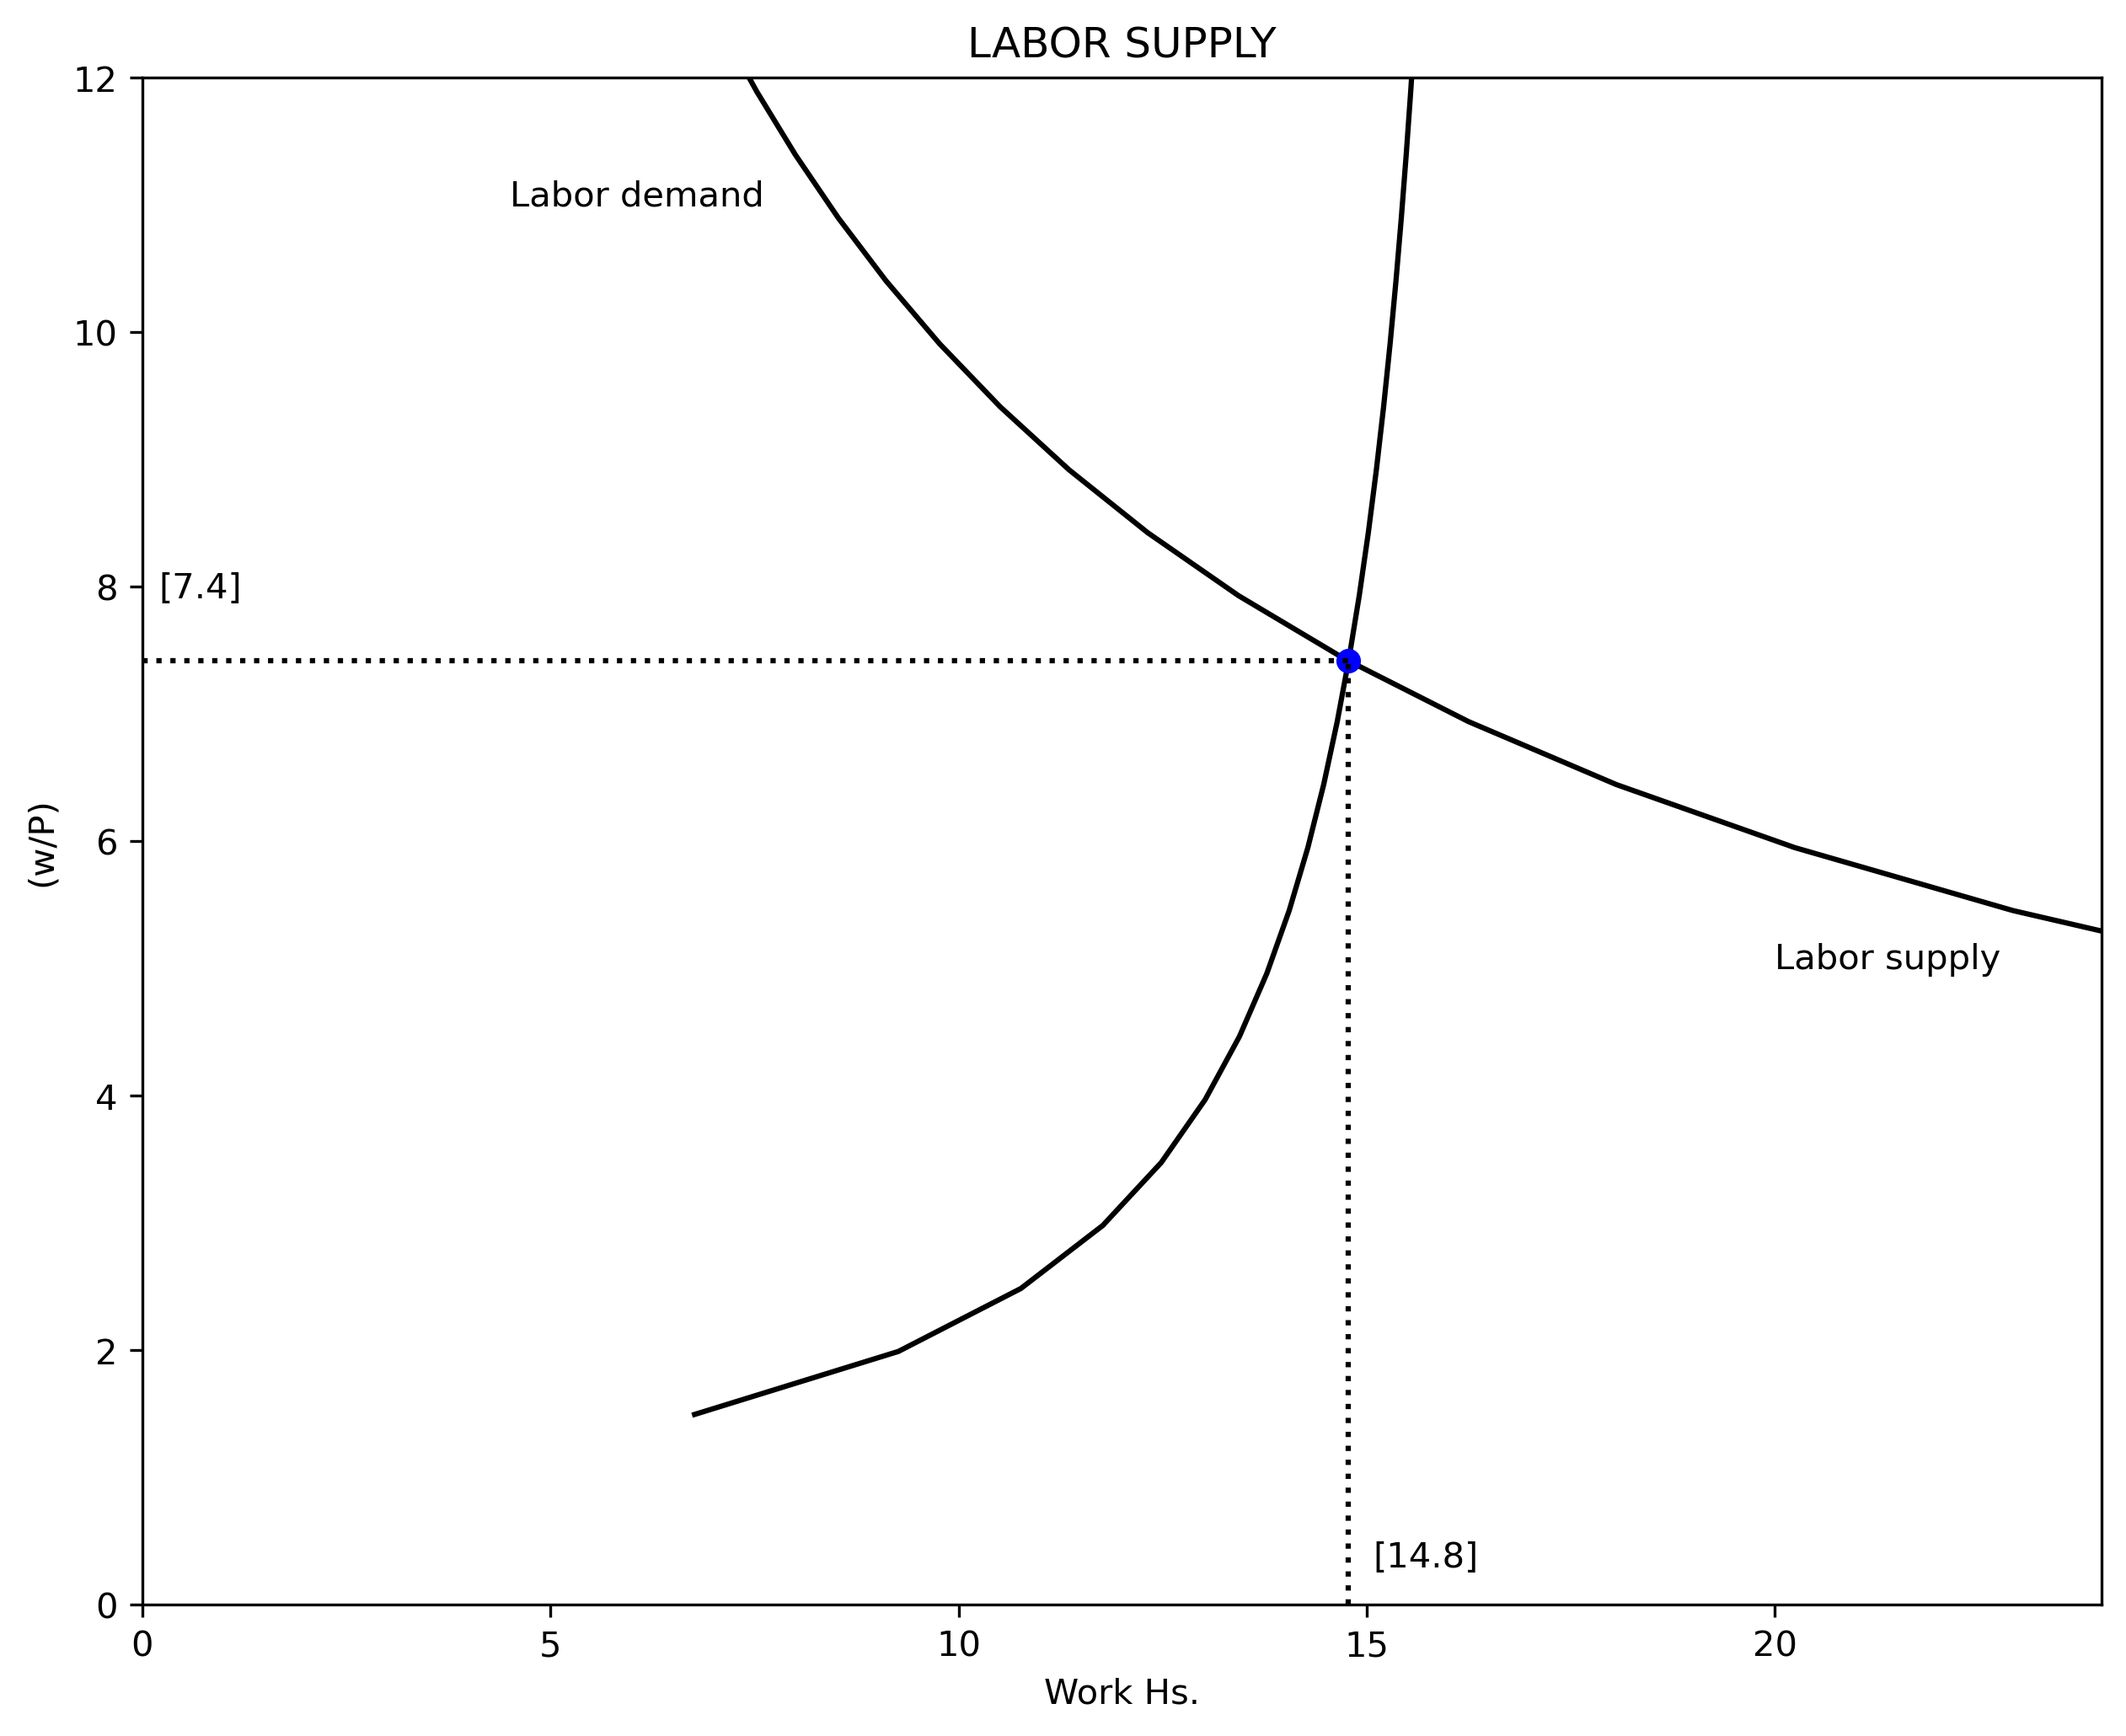
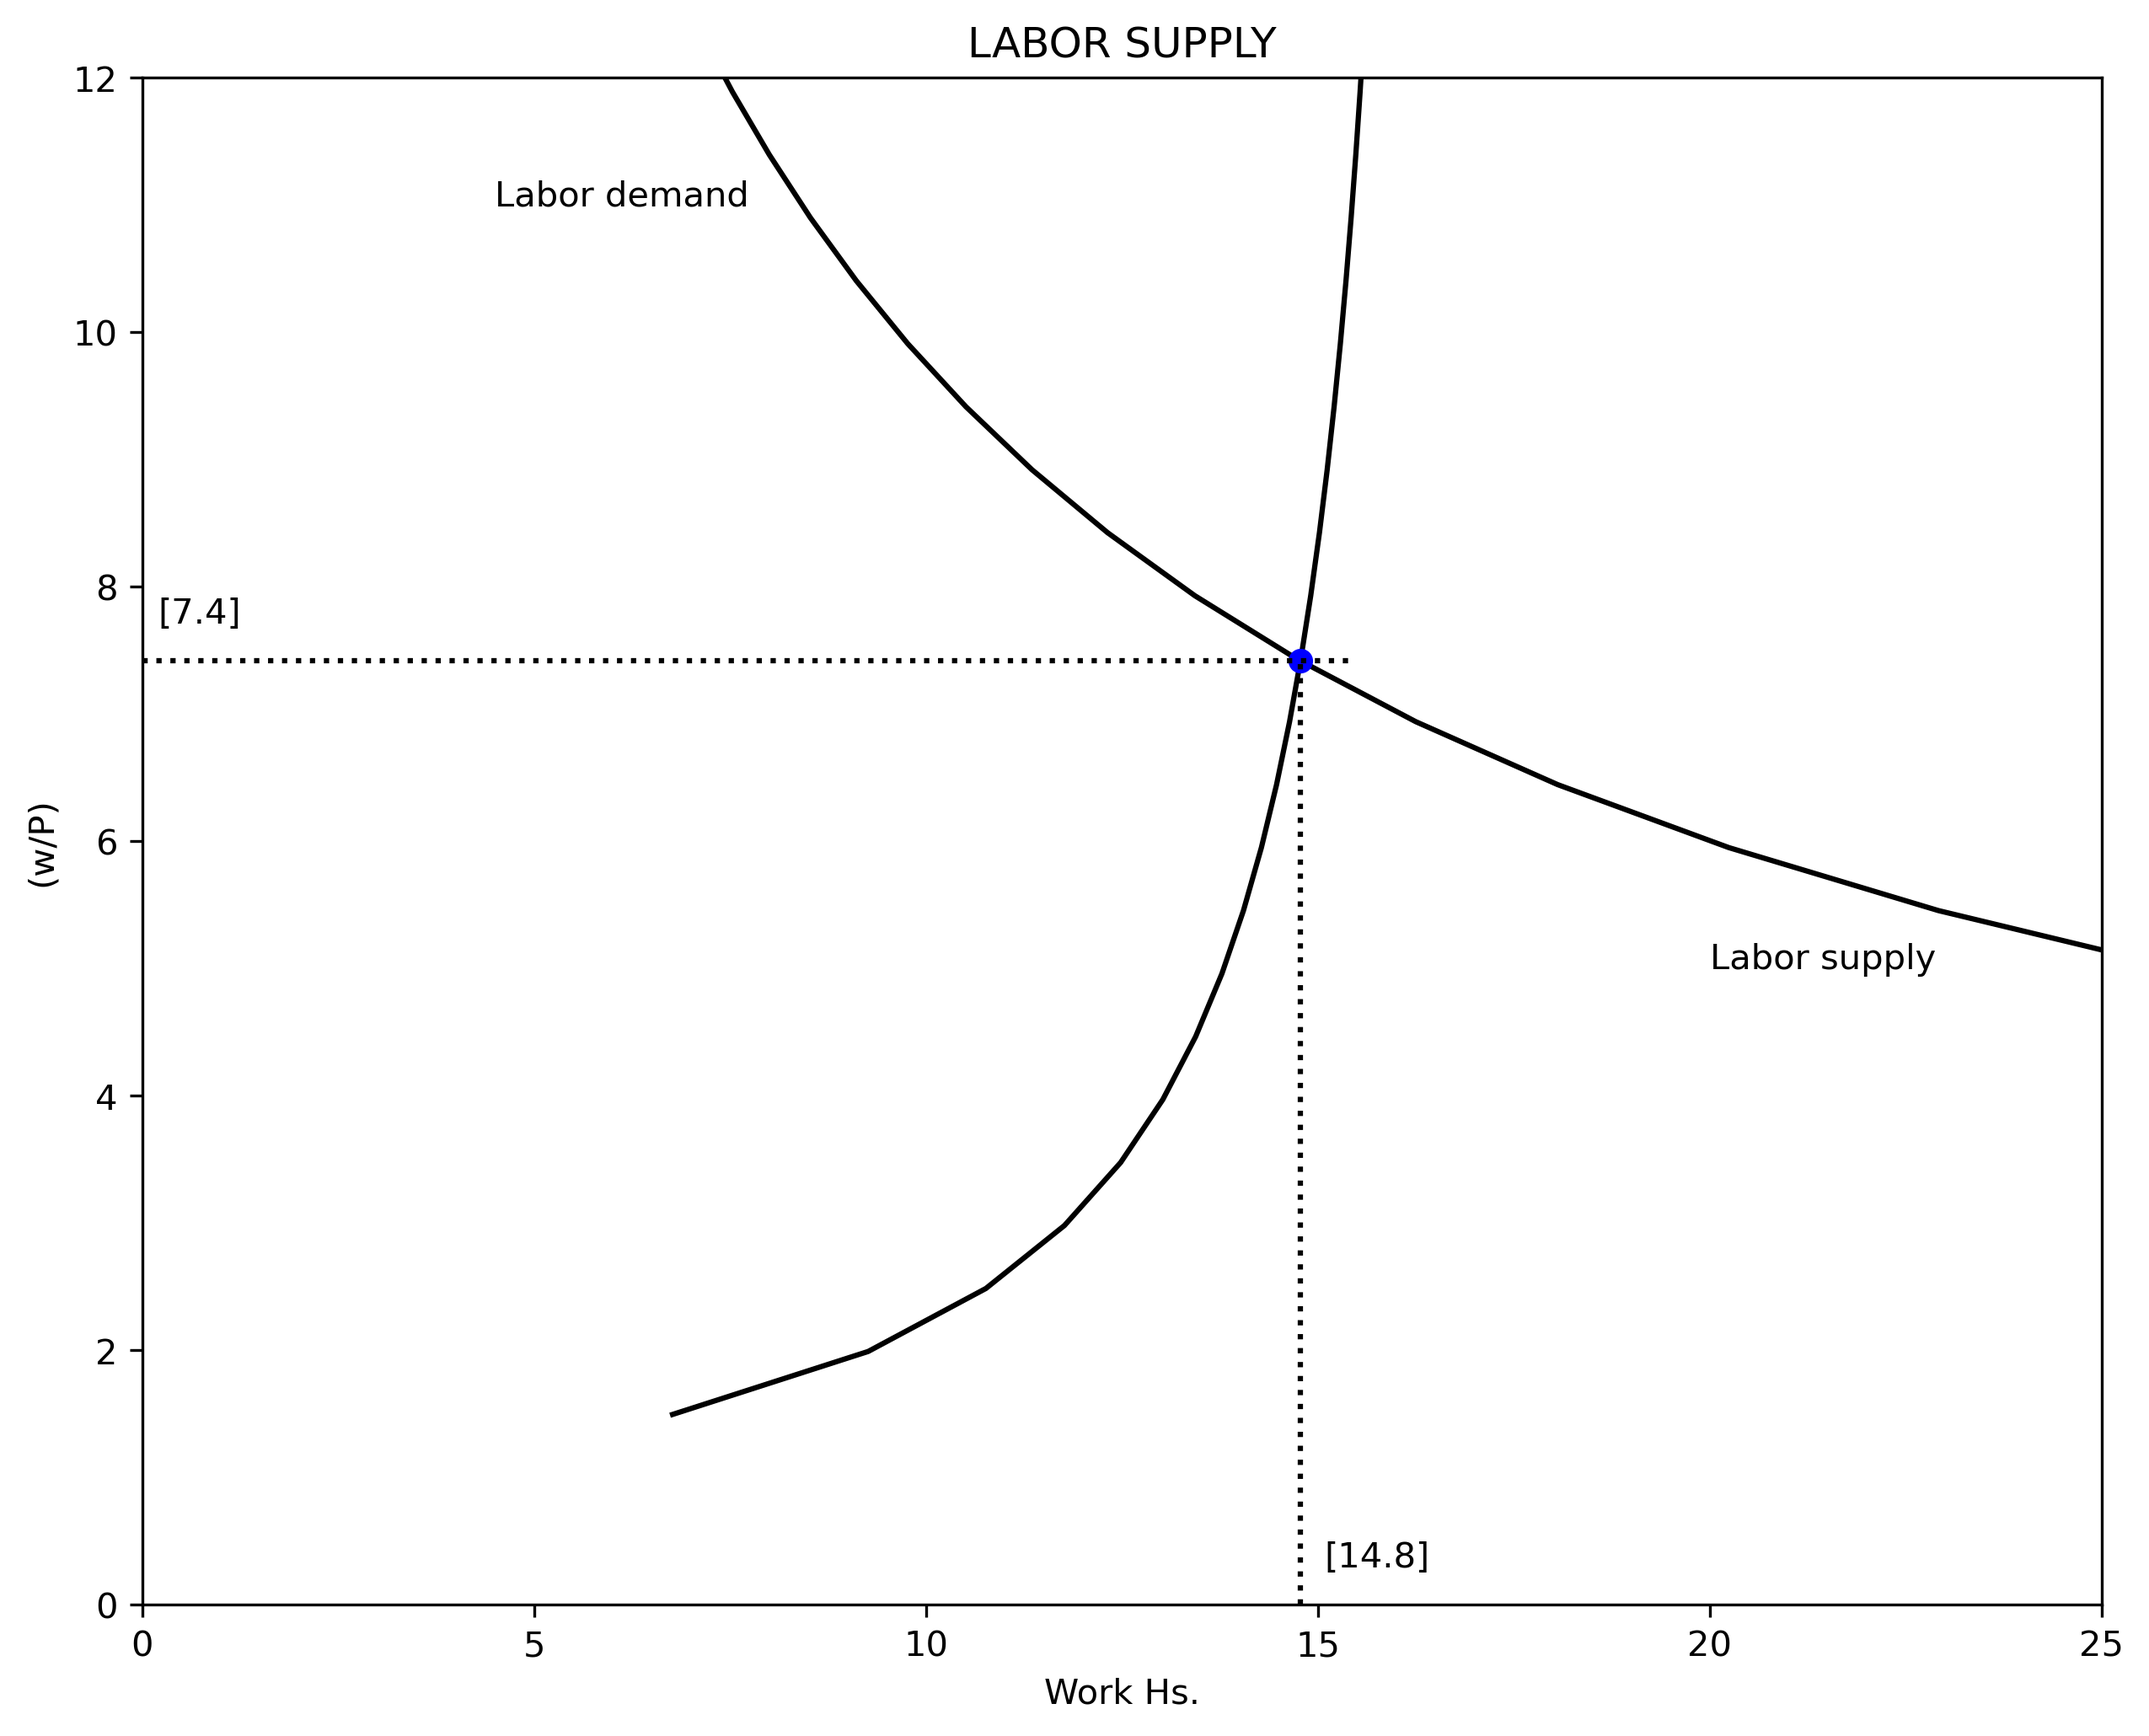
Labor

diff --git a/content/python/01_The-labor-market/_index.md b/content/python/01_The-labor-market/_index.md
@@ -9,10 +9,6 @@ date: "2018-09-09T00:00:00Z"
 type: book  # Do not modify.
 ---
 
-{{% callout warning %}}
-Under revision
-{{% /callout %}}
-
 ---
 
 {{< icon name="python" pack="fab" >}} {{% staticref "Python/The labor market.py" %}}Download Python file.{{% /staticref %}}
@@ -42,7 +38,7 @@ $$
 The following code plots labor demand and shifts produced by changes in $K$ (in <span style="color:blue">blue</span>), $A$ (in <span style="color:red">red</span>), and in $\alpha$ (in <span style="color:green">green</span>). The first part of the code imports the required packages. The second part defines the parameters and vectors to be used. The third part of the code builds the labor demand function. The fourth section calculates labor demand and the effects of shocks (1) to capital $(\Delta K = 20)$, (2) to productivity $(\Delta A = 20)$, and (3) to output elasticity of capital $(\Delta \alpha = 20)$. The fifth part of the code plots labor demand and the shock effects.
 
 ```python
-#%% | *** FIRST CELL ***
+#%% | *** CELL 1 ***
 "============================================================================"
 "1|IMPORT PACKAGES"
 import numpy             as np       # Package for scientific computing
@@ -183,7 +179,7 @@ $$
 Now we can use this information to plot the indifference curve with `matplotlib`. Note that at $T=24$ (zero hours of labor), income equals $I$ (non-labor income). This shows as a vertical line that connects with the budget constraint, which starts to grow as hours of labor are added.(moving to the left).
 
 ```python
-#%% *** SECOND CELL ***
+#%% *** CELL 2 ***
 "============================================================================"
 "6|DEFINE PARAMETERS AND ARRAYS"
 # Model parameters
@@ -254,12 +250,12 @@ $$
 \end{align}
 $$
 
-> If $I=0$, then labor supply simplifies to: $N^S = \beta T$.
+> If $I=0$, then labor supply does not depend on $w/P \to N^S = \beta T$.
 
 The following code shows labor supply (in black) and shocks to non-labor income $\Delta I = 25$ (in <span style="color:blue">blue</span>) and to consumption elasticity of utility $\Delta \beta = 0.10$ (in <span style="color:red">red</span>). Note that in this construction $N^S$ does not bend-backwards as is typically shows in economic textbooks.
 
 ```python
-#%% *** THIRD CELL ***
+#%% *** CELL 3 ***
 "============================================================================"
 "9|LABOR SUPPLY"
 def Nsupply(rW, beta, I):
@@ -342,9 +338,9 @@ plt.plot(N_star, rW_star.x, 'bo')
 plt.axvline(x=N_star   , ymin=0, ymax=rW_star.x/12, ls=':', color='k')
 plt.axhline(y=rW_star.x, xmin=0, xmax=N_star/T    , ls=':', color='k')
 # ADD LABELS
-plt.text( 4.5, 11, "Labor demand")
-plt.text(20  ,  5, "Labor supply")
-plt.text(0.2       , rW_star.x+0.5, np.round(rW_star.x, 1))
+plt.text( 4.5      , 11, "Labor demand")
+plt.text(20        ,  5, "Labor supply")
+plt.text(0.2       , rW_star.x+0.3, np.round(rW_star.x, 1))
 plt.text(N_star+0.3, 0.3          , np.round(N_star, 1))
 # SETTINGS
 plt.axis(axis_range) 
